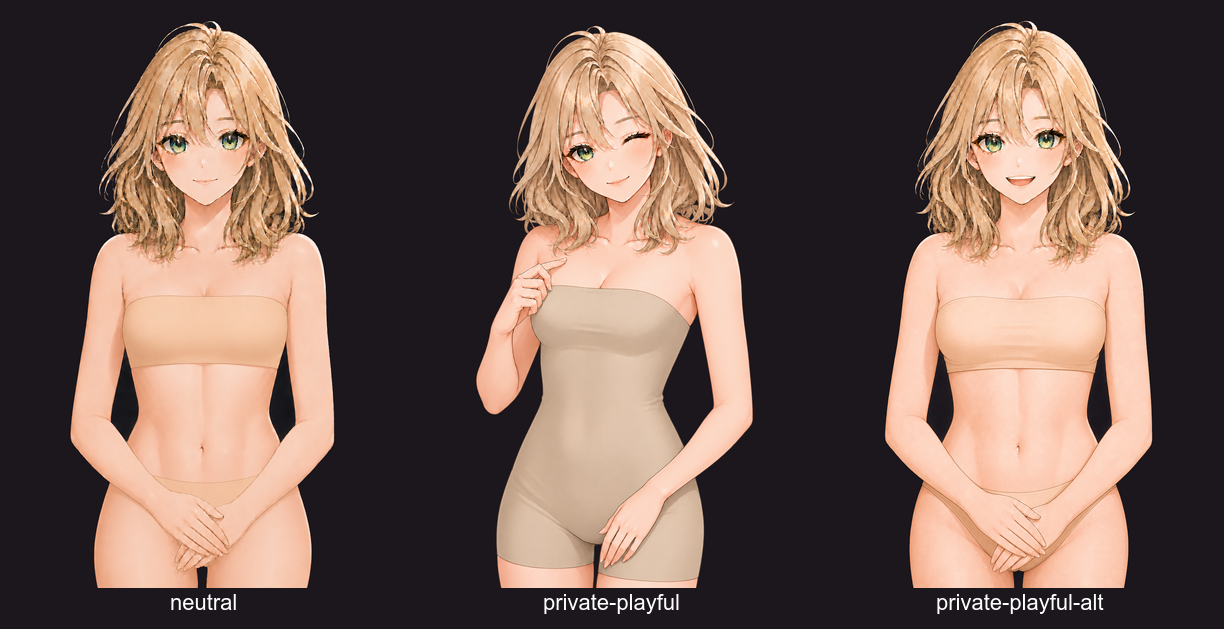
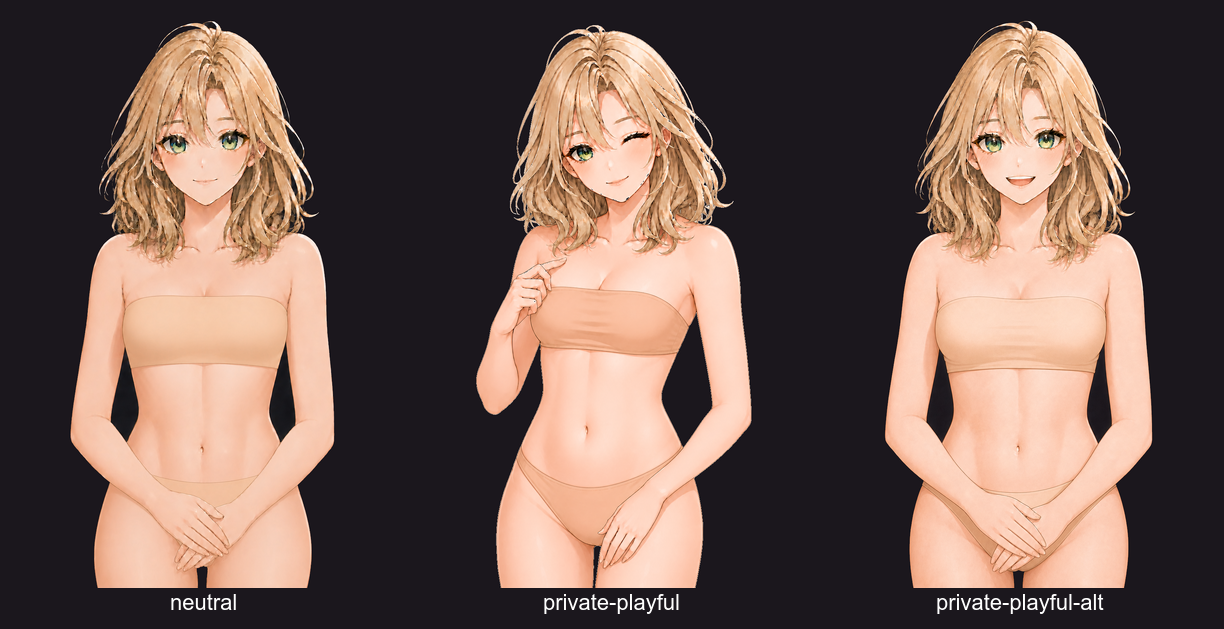
Restore base swimsuit on corrected bonk pose

Changed region(s): [[0.4036, 0.4531, 0.5899, 0.9364], [0.4036, 0.0302, 0.5899, 0.3927]]

diff --git a/docs/IMAGEGEN_PROMPTS_BASE.md b/docs/IMAGEGEN_PROMPTS_BASE.md
@@ -14,6 +14,6 @@ Use the accepted neutral base and the corresponding accepted clothed semantic fr
 
 Preserve every non-face pixel. Change only eyelids, eyebrows, mouth, and the minimum local facial shading required by the target emotion. No changes to hair silhouette, shoulders, torso, hands, technical underlayer, crop, or background.
 
-The base presentation is retained in `main` as a typed-only QA surface; public outfits remain independent full-frame generations. `private-playful.png` is the corrected asymmetric wink pose in a conservative opaque technical alignment bodysuit. The previous frontal mannequin pose is preserved byte-for-byte as `private-playful-alt.png` and is invoked only by the exact typed command `боньк2`.
+The base presentation is retained in `main` as a typed-only QA surface; public outfits remain independent full-frame generations. `private-playful.png` is the corrected asymmetric wink pose in the same warm peach-beige two-piece strapless swimsuit used by the accepted base frames. The previous frontal mannequin pose is preserved byte-for-byte as `private-playful-alt.png` and is invoked only by the exact typed command `боньк2`.
 
-The accepted corrected pose was produced with the built-in image generator from the approved hoodie `private-playful` frame. Final prompt intent: preserve the exact adult BoxGirl identity, three-quarter pose, wink, hands and cel shading; replace only the outfit with a plain opaque warm-beige strapless technical alignment bodysuit covering the torso through mid-thigh; return a clean transparent 1024×1536 sprite. A separate background-extraction edit removed the baked checkerboard; alpha edges were reviewed on white, dark and checkerboard backgrounds.
+The pose anchor was produced with the built-in image generator from the approved hoodie `private-playful` frame. The accepted clothing correction used `private-playful.png` as the edit target and `thinking.png` only as the swimsuit reference. Final prompt intent: replace only the one-piece garment with the exact separate bandeau top and matching bottom; preserve the adult BoxGirl identity, three-quarter pose, wink, hands, proportions and cel shading; return a transparent 1024×1536 sprite. Because the generator baked its checkerboard preview into RGB, the final alpha was extracted deterministically from the neutral background colors and reviewed on white, dark and checkerboard backgrounds.
